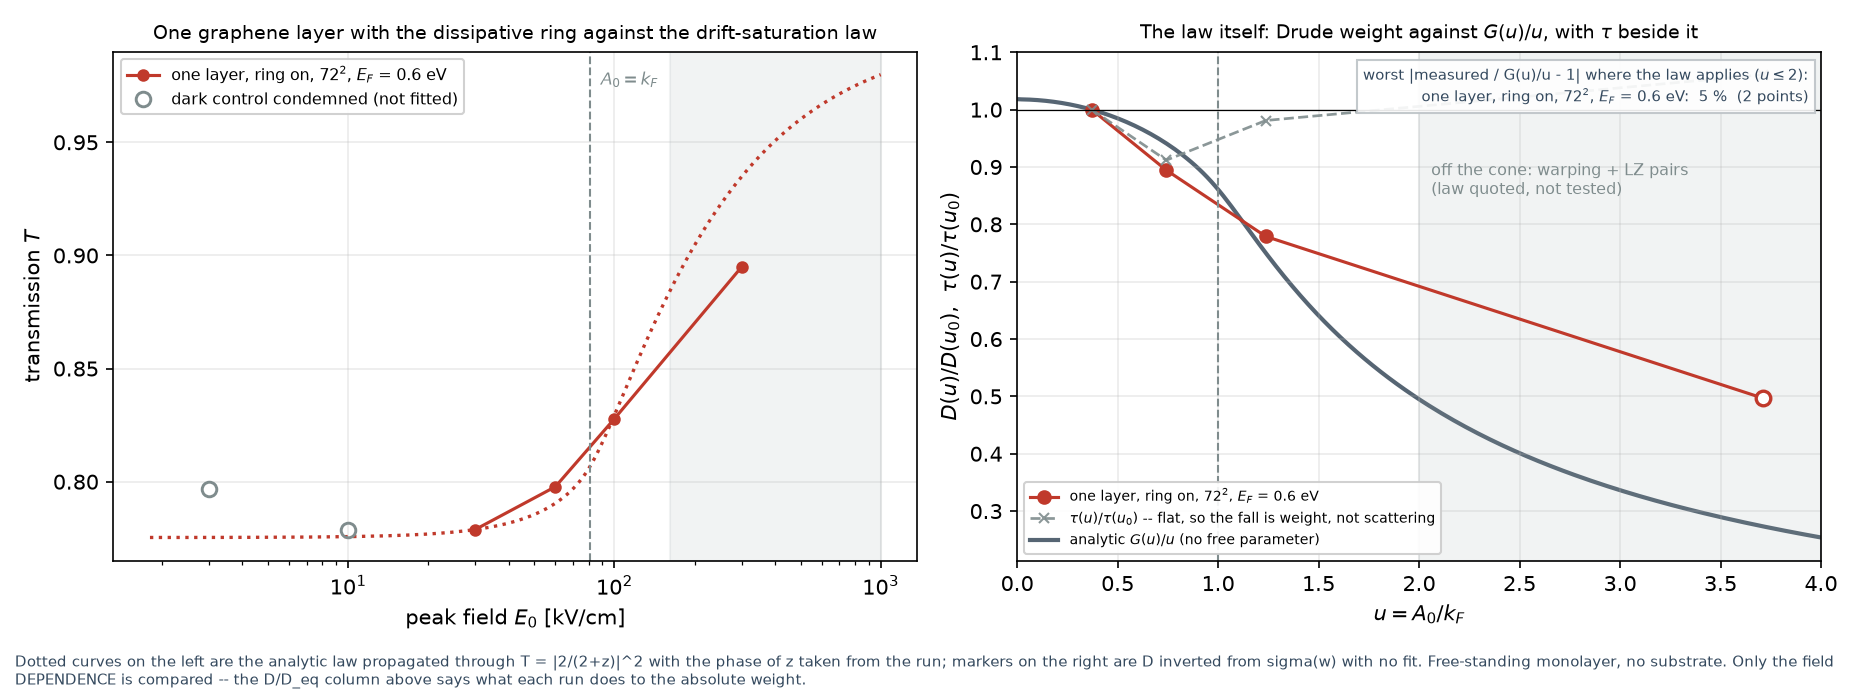
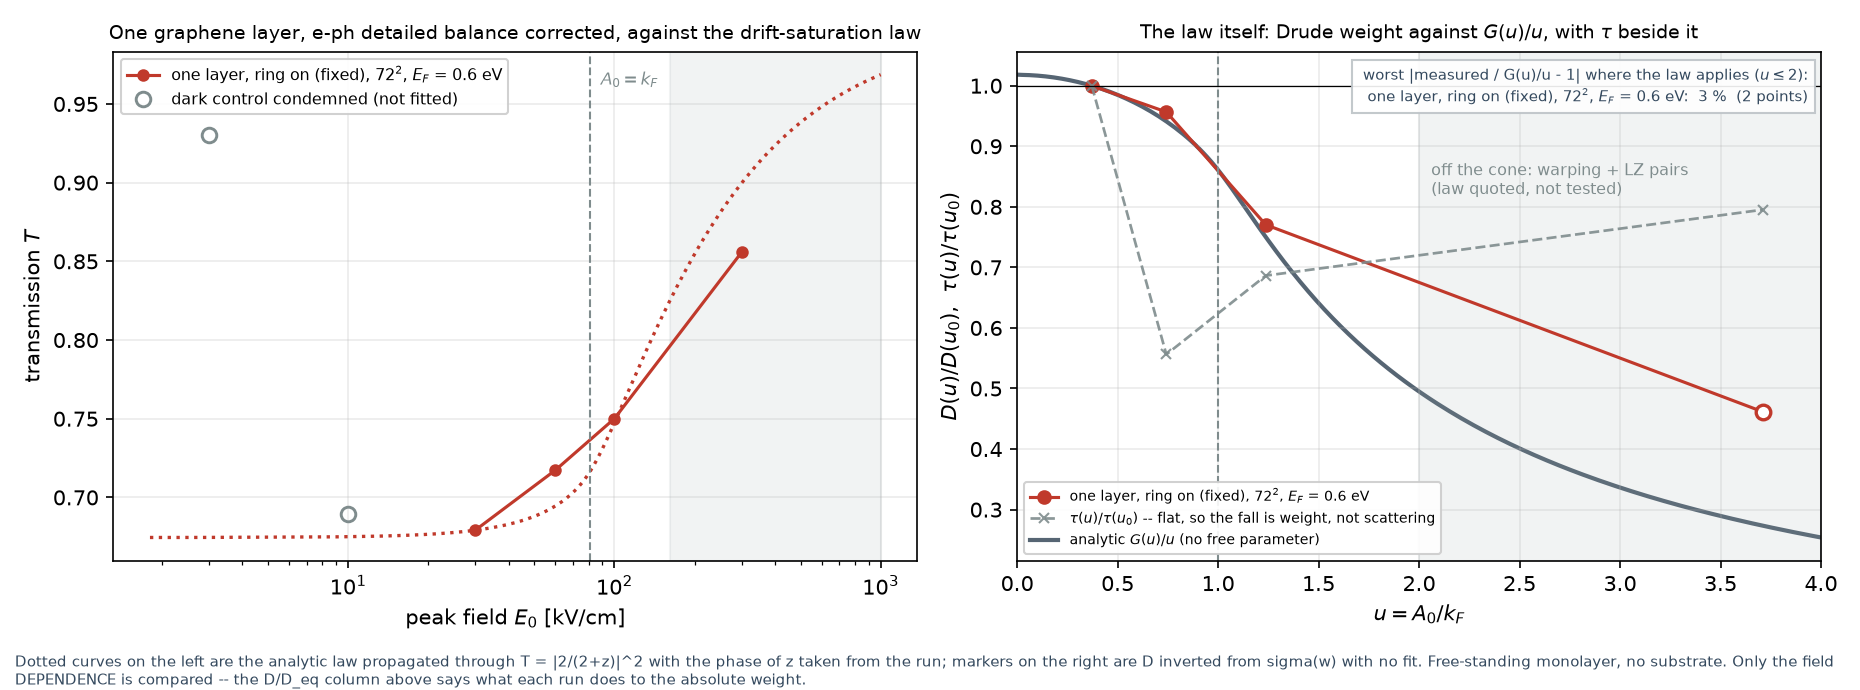
The corrected e-ph channel, measured: the pump is gone and the law holds
Repeat of the whole dissipative monolayer scan with detailed balance on the
realized transfer -- same 72^2, same E_F, same pulse and time grid as the
pre-fix scan, so the two compare point by point.

The zero-field pump is gone rather than reduced. The ring current falls from
|J|max = 2.4e-8 to 5.3e-19 and the energy it injects from +2.74889 to
+0.00007 meV/cell, 800x below the 0.055 meV that heating this sheet from 0 to
300 K costs. The dark fraction is 0.0 % at every field against 35.8 % and
14.0 % at 3 and 10 kV/cm, and dE_eph is now negative everywhere: the carriers
cool into the lattice instead of being warmed by it.

The drift law holds better. Anchored at 30 kV/cm, D(u)/D(u0) = 1.000, 0.957,
0.770 against G(u)/u = 1.000, 0.941, 0.750 -- residuals +1.7 % and +2.7 %
where before they were -5.0 % and +3.8 %, so the worst on-cone deviation drops
from 5.0 to 2.7 %. The absolute weight recovers to D/D_eq = 0.69 from 0.43,
which says more than half the deficit was the pump destroying it; the
remaining 31 % is still unexplained. Transmission rises +26 % from its minimum
against +14.9 %, and the fluence absorption and the electron-energy ledger --
a factor 5 apart on the worst pre-fix point -- now agree to 0.1-7 %.

A second fault is visible underneath and is NOT this one. At 3 and 10 kV/cm
the runs pass the dark control and fail the energy ledger: A = -0.538 against
A_E = -0.906 at 3 kV/cm, T + R = 1.54, and with the drive exactly zero over the
[…]

diff --git a/samples/exercise_x14_graphene_self_induced_transparency/transmission.py b/samples/exercise_x14_graphene_self_induced_transparency/transmission.py
@@ -245,8 +245,22 @@ def read_rt(path):
 
 
 def read_energy_delta(path):
-    """Final Eall-Eall0 [Ha] from *_sbe_rt_energy.data (unit from the header)."""
-    cols = _header_columns(path, 'Time')
+    """Final Eall-Eall0 [Ha] from *_sbe_rt_energy.data (unit from the header).
+
+    A run whose FIRST launch was a checkpoint resume has no header in this file:
+    realtime_ssbe writes headers only when is_ckrst is false, so an energy file created
+    by the resume itself starts straight at the data. The layout is fixed by the writer
+    (1:Time[fs] 2:Eall-Eall0[eV]), and the accumulator is restored from the checkpoint,
+    so the LAST row is still the correct cumulative value -- only the earlier rows are
+    missing. Fall back to that layout rather than refusing the run, and say so.
+    """
+    try:
+        cols = _header_columns(path, 'Time')
+    except RuntimeError:
+        v = np.loadtxt(path, comments='#')[-1, 1]
+        print(f'# {os.path.basename(os.path.dirname(path))}: energy file has no header '
+              f'(created by a checkpoint resume); assuming the writer layout, Eall-Eall0 in eV')
+        return v / AU_EV
     d = np.loadtxt(path, comments='#')
     for name, (i, unit) in cols.items():
         if name.startswith('Eall-Eall0'):

diff --git a/samples/exercise_x14_graphene_self_induced_transparency/README.md b/samples/exercise_x14_graphene_self_induced_transparency/README.md
@@ -1169,7 +1169,60 @@ its own runs and is deliberately not decided here.
 
 `tests/test_eph_detailed_balance.f90` holds a Dirac spectrum at an exact FD(T_bath) and
 requires the channel to leave it alone, checks that the residual shrinks with σ, and
-checks that the gate still reproduces the historical path. The existing CPTP tests could
+checks that the gate still reproduces the historical path.
+
+**The rescan.** The whole dissipative monolayer scan was repeated with the corrected
+channel — same 72², same E_F = 0.6 eV, same pulse and time grid as §7.11, so the two are
+directly comparable.
+
+*The pump is gone, not reduced.* In the zero-field control the ring current fell from
+|J|max = 2.4×10⁻⁸ to **5.3×10⁻¹⁹** (eleven orders) and the energy it injected from
++2.74889 to **+0.00007 meV/cell** — 40 800× down, and 800× below the 0.055 meV it costs to
+heat this sheet from 0 to 300 K. The dark fraction is **0.0 % at every field**, against
+35.8 % and 14.0 % at 3 and 10 kV/cm before. The sign of the heat flow also flipped to the
+physical one: dE_eph is now negative at every field (−0.015, −0.061, −0.213 meV/cell at 3,
+10, 30 kV/cm) — the carriers cool into the lattice instead of being warmed by it.
+
+*The law holds better.* Anchored the same way, at 30 kV/cm:
+
+| u = A₀/k_F | 0.371 | 0.742 | 1.237 | 3.711 |
+|---|---|---|---|---|
+| D(u)/D(u₀) | 1.000 | 0.957 | 0.770 | 0.461 |
+| G(u)/u | 1.000 | 0.941 | 0.750 | 0.273 |
+| residual, corrected | — | **+1.7 %** | **+2.7 %** | +68.8 % (off the cone) |
+| residual, before | — | −5.0 % | +3.8 % | +81.8 % |
+
+The worst on-cone deviation falls from 5.0 % to 2.7 %. And the absolute weight recovers:
+**D/D_eq = 0.69 against 0.43** before, so more than half of the missing Drude weight of
+§7.14 was the spurious pump destroying it. The remaining 31 % is still unexplained.
+
+*Transmission and the two absorption measures now agree.*
+
+| E₀ [kV/cm] | 30 | 60 | 100 | 300 |
+|---|---|---|---|---|
+| T | 0.679 | 0.717 | 0.750 | **0.856** |
+| A, fluence | 0.253 | 0.247 | 0.221 | 0.133 |
+| A_E, energy ledger | 0.236 | 0.243 | 0.219 | 0.132 |
+| disagreement | 7 % | 2 % | 1 % | **0.1 %** |
+
+The sheet brightens by +26 % from its minimum (against +14.9 % before), and the fluence and
+the electron-energy ledger — which disagreed by a factor 5 on the worst pre-fix point —
+now agree to between 0.1 and 7 %.
+
+**What the rescan did NOT fix, and it is a different fault.** At 3 and 10 kV/cm the runs
+now pass the dark control and fail the *energy ledger*: A = −0.538 against A_E = −0.906 at
+3 kV/cm, T + R = 1.54, and with the drive exactly zero over the last 60 fs the current sits
+at its maximum and is still growing. The phonon bath is not the source — dE_eph is negative
+there too. The suspect is the Rana Auger channel: dN_rana < 0 at every field, i.e. it is
+*recombining*, and a doped gapless sheet has no holes for its Drude carriers to recombine
+with. Those two points are drawn hollow in the figure and are not fitted. The fields from
+30 kV/cm up are unaffected, which is why the drift-law test above stands.
+
+Two tooling repairs came out of running this on a box that restarts: `read_rt` now drops
+the duplicated rows a checkpoint resume leaves at the seam (19 and 24 rows in two of these
+fields) and `read_energy_delta` accepts an energy file with no header, which is what a run
+whose FIRST launch was a resume produces — the accumulator is restored from the checkpoint,
+so the last row is still right and only the earlier rows are missing. The existing CPTP tests could
 not have caught this: trace was always conserved, populations always stayed in range,
 and transfers always went to energy-matched partners. A dissipator can be a perfectly
 valid CPTP map and still have the wrong fixed point.

diff --git a/wiki/12_graphene_sheet_solver.md b/wiki/12_graphene_sheet_solver.md
@@ -1324,7 +1324,45 @@ than $\approx 20$, so for them it is a small correction and not a runaway; wheth
 enable it there needs its own runs.
 
 `tests/test_eph_detailed_balance.f90` holds a Dirac spectrum at an exact
-$f_{\rm FD}(T_{\rm bath})$ and requires the channel to leave it alone. The existing CPTP
+$f_{\rm FD}(T_{\rm bath})$ and requires the channel to leave it alone.
+
+**The rescan.** Repeating the whole dissipative monolayer scan with the corrected channel —
+same $72^2$, same $E_F$, same pulse and time grid as §4a.5.5, so the two are comparable
+point by point — settles what the correction was worth.
+
+The zero-field pump is gone rather than reduced: the ring current falls from
+$|J|_{\max} = 2.4\times10^{-8}$ to $5.3\times10^{-19}$ and the energy it injects from
+$+2.749$ to $+7\times10^{-5}$ meV/cell, which is $800\times$ below the 0.055 meV that
+heating this sheet from 0 to 300 K costs. The dark fraction is $0.0\,\%$ at every field
+against $35.8$ and $14.0\,\%$ at 3 and 10 kV/cm, and $\Delta E_{\rm eph}$ is now negative
+everywhere — the carriers cool into the lattice instead of being warmed by it.
+
+The drift law, anchored at 30 kV/cm as before:
+
+| $u$ | 0.371 | 0.742 | 1.237 | 3.711 |
+|---|---|---|---|---|
+| $D(u)/D(u_0)$ | 1.000 | 0.957 | 0.770 | 0.461 |
+| $G(u)/u$ | 1.000 | 0.941 | 0.750 | 0.273 |
+| residual, corrected | — | $+1.7\,\%$ | $+2.7\,\%$ | $+68.8\,\%$ |
+| residual, before | — | $-5.0\,\%$ | $+3.8\,\%$ | $+81.8\,\%$ |
+
+The worst on-cone deviation drops from $5.0$ to $2.7\,\%$, and the absolute weight recovers
+to $D/D_{\rm eq} = 0.69$ from $0.43$ — so more than half of the deficit §4a.5.7 could not
+explain was the pump destroying the weight. The sheet brightens $+26\,\%$ from its minimum
+(against $+14.9\,\%$), and the fluence absorption and the electron-energy ledger, which
+disagreed by a factor 5 on the worst pre-fix point, now agree to $0.1$–$7\,\%$.
+
+![one layer with the corrected ring against the drift law](figures/graphene_drift_fit_1layer.png)
+
+**A second fault is now visible underneath, and it is not this one.** At 3 and 10 kV/cm the
+runs pass the dark control and fail the energy ledger: $A = -0.538$ against $A_E = -0.906$
+at 3 kV/cm, $T + R = 1.54$, and with the drive exactly zero over the last 60 fs the current
+sits at its maximum and is still growing. The phonon bath is not the source — $\Delta
+E_{\rm eph}$ is negative there too. The suspect is the Rana Auger channel, whose
+$\Delta N$ is negative at every field: it is recombining, and a doped gapless sheet has no
+holes for its Drude carriers to recombine with. The fields from 30 kV/cm up are unaffected,
+which is why the drift-law test above stands; the two low points are drawn hollow and not
+fitted. The existing CPTP
 tests could not have caught this — trace was conserved, populations stayed in range,
 transfers went to energy-matched partners. A dissipator can be a perfectly valid CPTP map
 and still have the wrong fixed point, and only a stationarity test says which.
